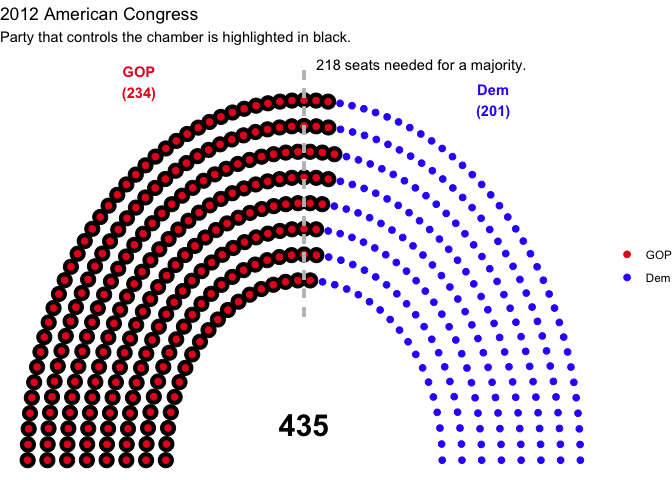
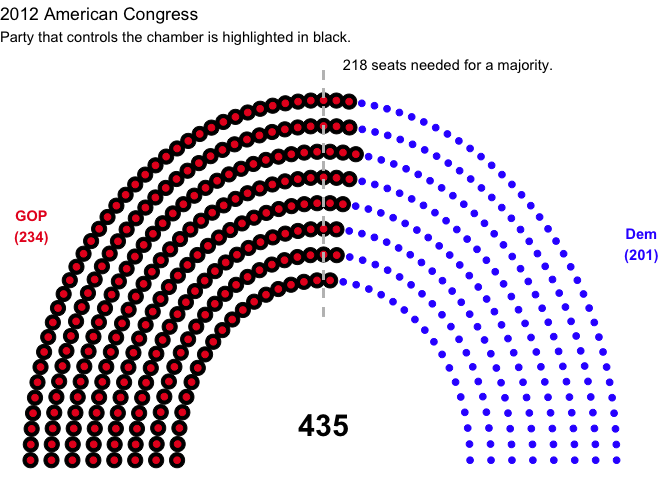
legislature labels is really janky code :\

diff --git a/README.md b/README.md
@@ -521,8 +521,8 @@ ggplot(usa_12, aes(x,
   draw_legislaturelabels(total_parliamentary_seats = 435,
                          type = 'semicircle') + 
   theme_void() +
-  labs(colour = NULL, 
-       title = "2012 American Congress",
+  theme(legend.position = 'none') + 
+  labs(title = "2012 American Congress",
        subtitle = "Party that controls the chamber is highlighted in black.") +
   scale_colour_manual(values = usa_12$colour, 
                       limits = usa_12$party_short) 
@@ -541,8 +541,8 @@ au <-ggplot(australia1, aes(x,
   draw_legislaturelabels(total_parliamentary_seats = 150,
                          type = 'horseshoe') + 
   theme_void() +
-  labs(colour = NULL, 
-       title = "Australian Parliament",
+  theme(legend.position = 'none') + 
+  labs(title = "Australian Parliament",
        subtitle = "Government encircled in black.") +
   scale_colour_manual(values = australia$colour, 
                       limits = australia$party_short)
@@ -551,6 +551,27 @@ au
 
 ![](README_files/figure-html/unnamed-chunk-21-1.png)<!-- -->
 
+
+```r
+german_parliament_labelled <- ggplot(germany, aes(x,
+                    y,
+                    colour = party_short))+
+  geom_parliament_seats()+
+  geom_highlight_government(government == 1) + 
+  draw_majoritythreshold(n = 355,
+                         type = 'semicircle', 
+                         label = TRUE) + 
+  draw_legislaturelabels(total_parliamentary_seats = 709,
+                         type = 'semicircle') + 
+  labs(title="Germany 2017 Election Results") + 
+  theme_void() +
+  theme(legend.position = 'none') +
+  scale_colour_manual(values = germany$colour, 
+                      limits = germany$party_short)
+german_parliament_labelled
+```
+
+![](README_files/figure-html/unnamed-chunk-22-1.png)<!-- -->
 
 
 # TODO
